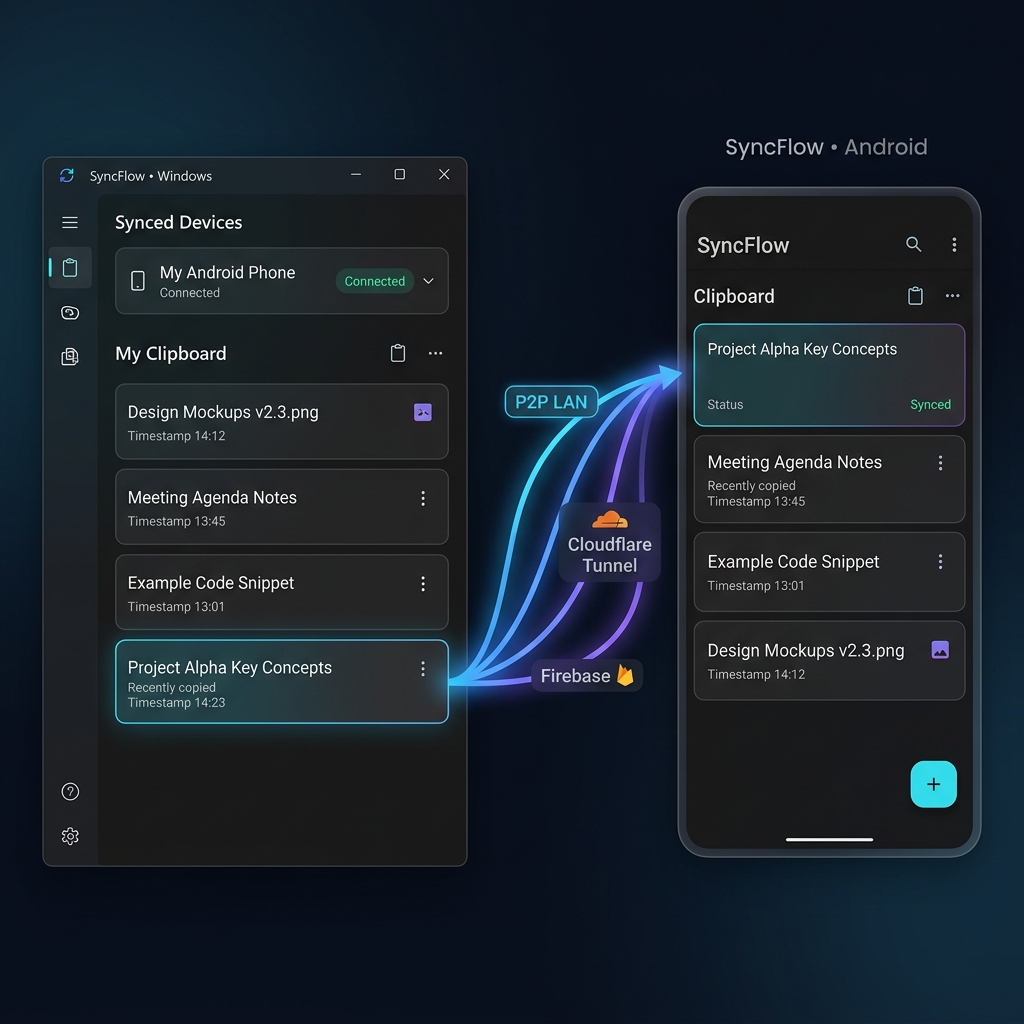
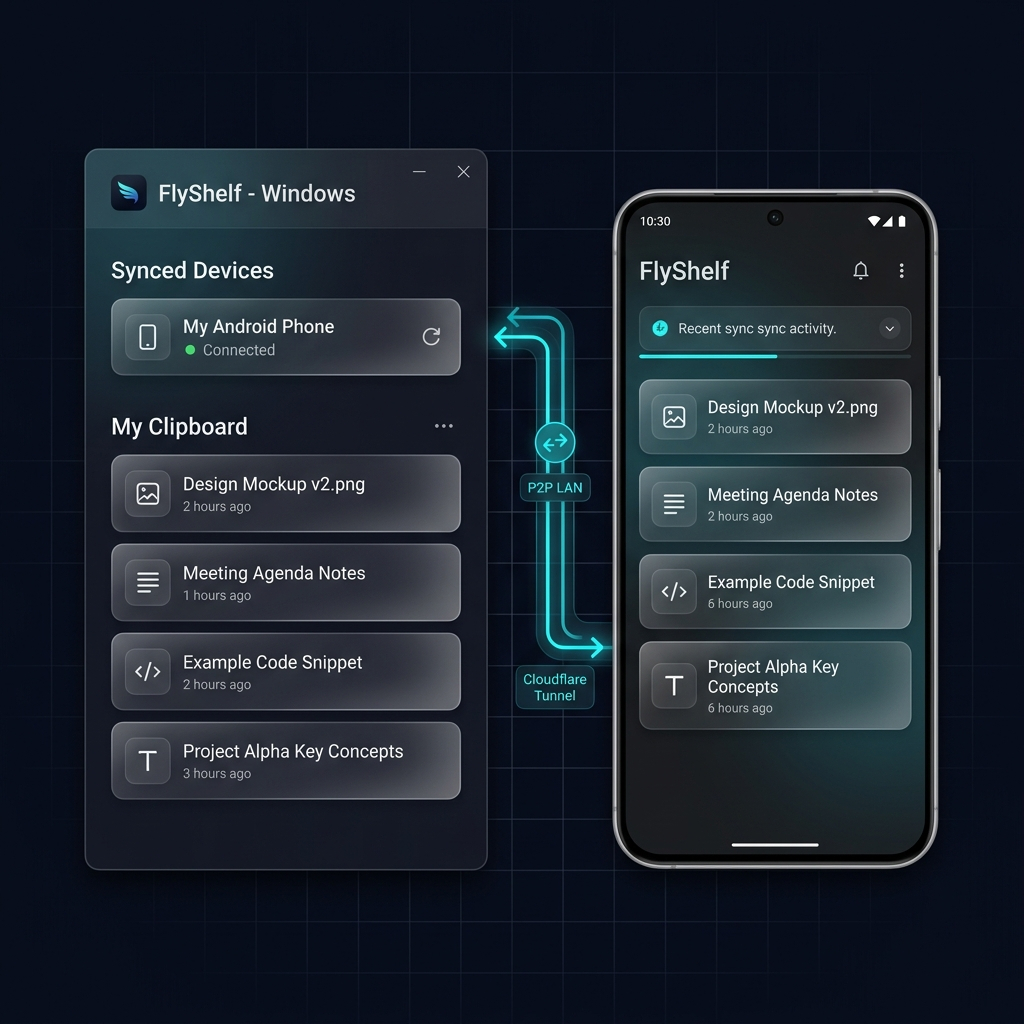
feat: implement MS Store Policy 10.8 checkout disclosures & refresh showcase screenshots

diff --git a/FlyShelf_PC/Classes/UpgradePrompt.cs b/FlyShelf_PC/Classes/UpgradePrompt.cs
@@ -236,21 +236,7 @@ namespace FlyShelf.Classes
             buyLink.Inlines.Add(linkRun);
             buyLink.MouseLeftButtonUp += (s, ev) =>
             {
-                try
-                {
-                    string deviceId = FlyShelf.Classes.SettingsManager.Current.DeviceId ?? "";
-#if MSIX_STORE
-                    FlyShelf.Windows.ToastWindow.ShowToast("Pro upgrade is available at https://fly-shelf.vercel.app/");
-#else
-                    string paymentUrl = $"https://fly-shelf.vercel.app/pricing.html?deviceId={Uri.EscapeDataString(deviceId)}";
-                    System.Diagnostics.Process.Start(new System.Diagnostics.ProcessStartInfo
-                    {
-                        FileName = paymentUrl,
-                        UseShellExecute = true
-                    });
-#endif
-                }
-                catch { }
+                OpenSecureCheckout(dialog);
             };
             Grid.SetRow(buyLink, 4);
             grid.Children.Add(buyLink);
@@ -382,6 +368,62 @@ namespace FlyShelf.Classes
             if (result == MessageBoxResult.Yes)
             {
                 ShowActivationDialog(resolvedOwner);
+            }
+        }
+
+        // ═════════════════════════════════════════════════════════════
+        // SECURE CHECKOUT DISCLOSURE (Policy 10.8 Compliant)
+        // ═════════════════════════════════════════════════════════════
+
+        public static void OpenSecureCheckout(Window? owner = null)
+        {
+            try
+            {
+                var resolvedOwner = ResolveActiveOwner(owner);
+                string deviceId = FlyShelf.Classes.SettingsManager.Current.DeviceId ?? "";
+                string paymentUrl = $"https://fly-shelf.vercel.app/pricing.html?deviceId={Uri.EscapeDataString(deviceId)}";
+
+                string msg = "Secure External Checkout\n\n" +
+                             "You are proceeding to our secure payment gateway to complete your upgrade purchase:\n" +
+                             "https://fly-shelf.vercel.app/pricing.html\n\n" +
+                             "• This transaction is processed outside of the Microsoft Store.\n" +
+                             "• Microsoft gift cards, store credits, and family safety controls (such as 'Ask to Buy') are not supported.\n" +
+                             "• Customer support, billing queries, and refund requests are managed directly by FlyShelf.\n\n" +
+                             "Would you like to open the secure checkout page in your browser?";
+
+                MessageBoxResult result;
+                if (resolvedOwner != null)
+                {
+                    result = MessageBox.Show(
+                        resolvedOwner,
+                        msg,
+                        "FlyShelf - Secure Checkout",
+                        MessageBoxButton.YesNo,
+                        MessageBoxImage.Information);
+                }
+                else
+                {
+                    result = MessageBox.Show(
+                        msg,
+                        "FlyShelf - Secure Checkout",
+                        MessageBoxButton.YesNo,
+                        MessageBoxImage.Information);
+                }
+
+                if (result == MessageBoxResult.Yes)
+                {
+                    System.Diagnostics.Process.Start(new System.Diagnostics.ProcessStartInfo
+                    {
+                        FileName = paymentUrl,
+                        UseShellExecute = true
+                    });
+                    FlyShelf.Windows.ToastWindow.ShowToast("🛒 Opening payment page in your browser...");
+                }
+            }
+            catch (Exception ex)
+            {
+                FlyShelf.Classes.Logger.LogAction("LICENSE", $"Failed to open checkout: {ex.Message}");
+                FlyShelf.Windows.ToastWindow.ShowToast("❌ Could not open browser. Please visit our website to upgrade.");
             }
         }
     }

diff --git a/FlyShelf_PC/Windows/HubWindow.Settings.cs b/FlyShelf_PC/Windows/HubWindow.Settings.cs
@@ -794,30 +794,9 @@ namespace FlyShelf.Windows
         // BUY PREMIUM â€” Opens payment page in default browser
         // â•â•â•â•â•â•â•â•â•â•â•â•â•â•â•â•â•â•â•â•â•â•â•â•â•â•â•â•â•â•â•â•â•â•â•â•â•â•â•â•â•â•â•â•â•â•â•â•â•â•â•â•â•â•â•â•â•â•â•â•â•â•â•
 
-        private void BuyPremium_Click(object sender, System.Windows.Input.MouseButtonEventArgs e)
+                private void BuyPremium_Click(object sender, System.Windows.Input.MouseButtonEventArgs e)
         {
-            try
-            {
-                string deviceId = FlyShelf.Classes.SettingsManager.Current.DeviceId ?? "";
-                // TODO: Update this URL once you deploy to Firebase Hosting
-#if MSIX_STORE
-                FlyShelf.Windows.ToastWindow.ShowToast("â„¹ï¸ Pro upgrade is available at https://fly-shelf.vercel.app/");
-                return;
-#else
-                string paymentUrl = $"https://fly-shelf.vercel.app/pricing.html?deviceId={Uri.EscapeDataString(deviceId)}";
-                System.Diagnostics.Process.Start(new System.Diagnostics.ProcessStartInfo
-                {
-                    FileName = paymentUrl,
-                    UseShellExecute = true
-                });
-#endif
-                FlyShelf.Windows.ToastWindow.ShowToast("ðŸ›’ Opening payment page in your browser...");
-            }
-            catch (Exception ex)
-            {
-                FlyShelf.Classes.Logger.LogAction("LICENSE", $"Failed to open payment URL: {ex.Message}");
-                FlyShelf.Windows.ToastWindow.ShowToast("âŒ Could not open browser. Please visit our website to purchase.");
-            }
+            FlyShelf.Classes.UpgradePrompt.OpenSecureCheckout(this);
         }
 
         // â•â•â• Device Send, Archive, Merge & Selection moved to HubWindow.SettingsHandlers.cs â•â•â•
